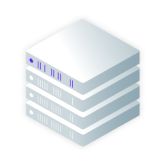
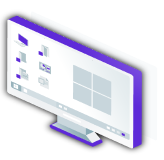
Update desktop UI empty state to new layout.

diff --git a/web/packages/teleport/src/Desktops/Desktops.tsx b/web/packages/teleport/src/Desktops/Desktops.tsx
@@ -23,8 +23,11 @@ import {
   FeatureHeader,
   FeatureHeaderTitle,
 } from 'teleport/components/Layout';
+import Empty, { EmptyStateInfo } from 'teleport/components/Empty';
 import DesktopList from './DesktopList';
 import useDesktops, { State } from './useDesktops';
+
+const DOC_URL = 'https://goteleport.com/docs/desktop-access/getting-started/';
 
 export default function Container() {
   const ctx = useTeleport();
@@ -38,9 +41,13 @@ export function Desktops(props: State) {
     username,
     clusterId,
     desktops,
+    canCreate,
+    isLeafCluster,
     getWindowsLoginOptions,
     openRemoteDesktopTab,
   } = props;
+
+  const isEmpty = attempt.status === 'success' && desktops.length === 0;
 
   return (
     <FeatureBox>
@@ -53,7 +60,7 @@ export function Desktops(props: State) {
         </Box>
       )}
       {attempt.status === 'failed' && <Danger>{attempt.statusText}</Danger>}
-      {attempt.status === 'success' && (
+      {!isEmpty && (
         <>
           <DesktopList
             desktops={desktops}
@@ -64,6 +71,26 @@ export function Desktops(props: State) {
           />
         </>
       )}
+      {isEmpty && (
+        <Empty
+          clusterId={clusterId}
+          canCreate={canCreate && !isLeafCluster}
+          onClick={() => window.open(DOC_URL)}
+          emptyStateInfo={emptyStateInfo}
+        />
+      )}
     </FeatureBox>
   );
 }
+
+const emptyStateInfo: EmptyStateInfo = {
+  title: 'Add your first Windows desktop to Teleport',
+  byline:
+    'Teleport Desktop Access provides graphical desktop access to remote Windows hosts.',
+  docsURL: DOC_URL,
+  entityType: 'desktop',
+  readOnly: {
+    title: 'No Desktops Found',
+    resource: 'applications',
+  },
+};

diff --git a/web/packages/teleport/src/Desktops/useDesktops.ts b/web/packages/teleport/src/Desktops/useDesktops.ts
@@ -24,7 +24,8 @@ import { openNewTab } from 'teleport/lib/util';
 
 export default function useDesktops(ctx: Ctx) {
   const { attempt, run } = useAttempt('processing');
-  const { clusterId } = useStickyClusterId();
+  const { clusterId, isLeafCluster } = useStickyClusterId();
+  const canCreate = ctx.storeUser.getTokenAccess().create;
   const username = ctx.storeUser.state.username;
   const windowsLogins = ctx.storeUser.getWindowsLogins();
 
@@ -56,6 +57,8 @@ export default function useDesktops(ctx: Ctx) {
     attempt,
     username,
     clusterId,
+    canCreate,
+    isLeafCluster,
     getWindowsLoginOptions,
     openRemoteDesktopTab,
   };

diff --git a/web/packages/teleport/src/components/Empty/Empty.tsx b/web/packages/teleport/src/components/Empty/Empty.tsx
@@ -23,13 +23,15 @@ import Image from 'design/Image';
 import application from './assets/appplication.png';
 import database from './assets/database.png';
 import desktop from './assets/desktop.png';
+import stack from './assets/stack.png';
 
 function getAccentImage(entityType: string): string {
   const accentImages = {
     application: application,
     database: database,
-    kubernetes: desktop,
-    server: desktop,
+    desktop: desktop,
+    kubernetes: stack,
+    server: stack,
   };
   return accentImages[entityType];
 }
